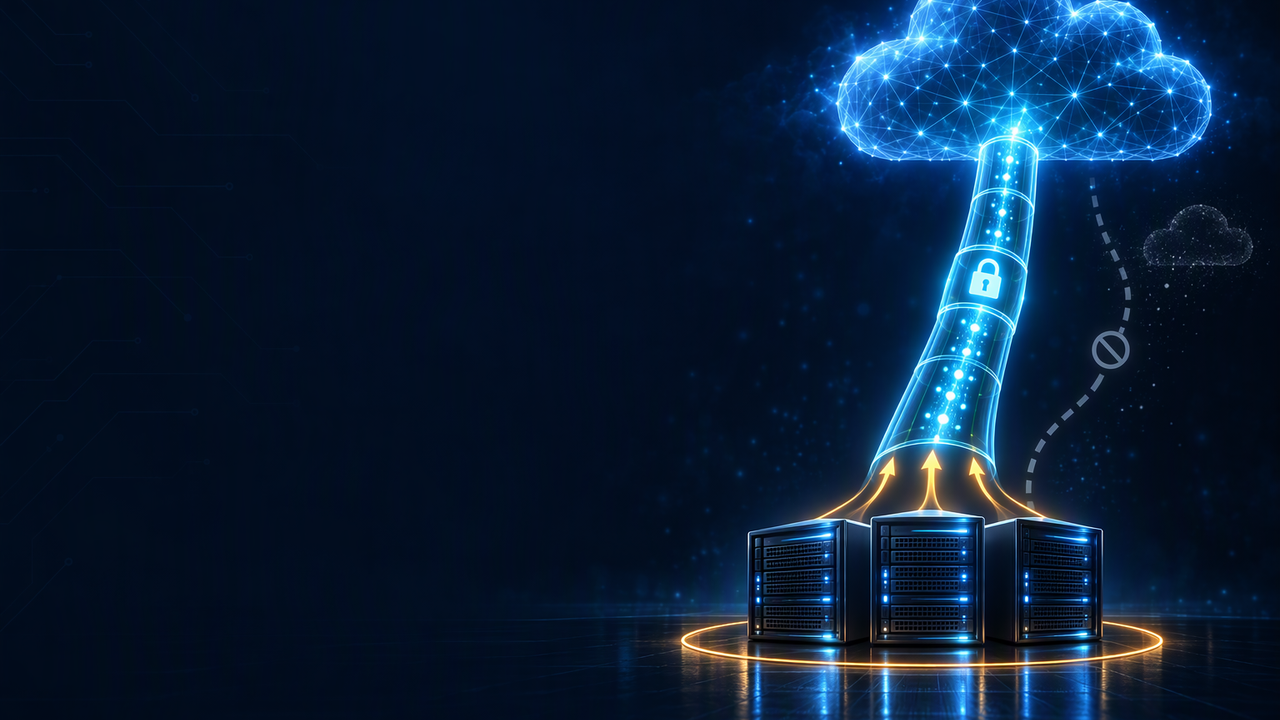
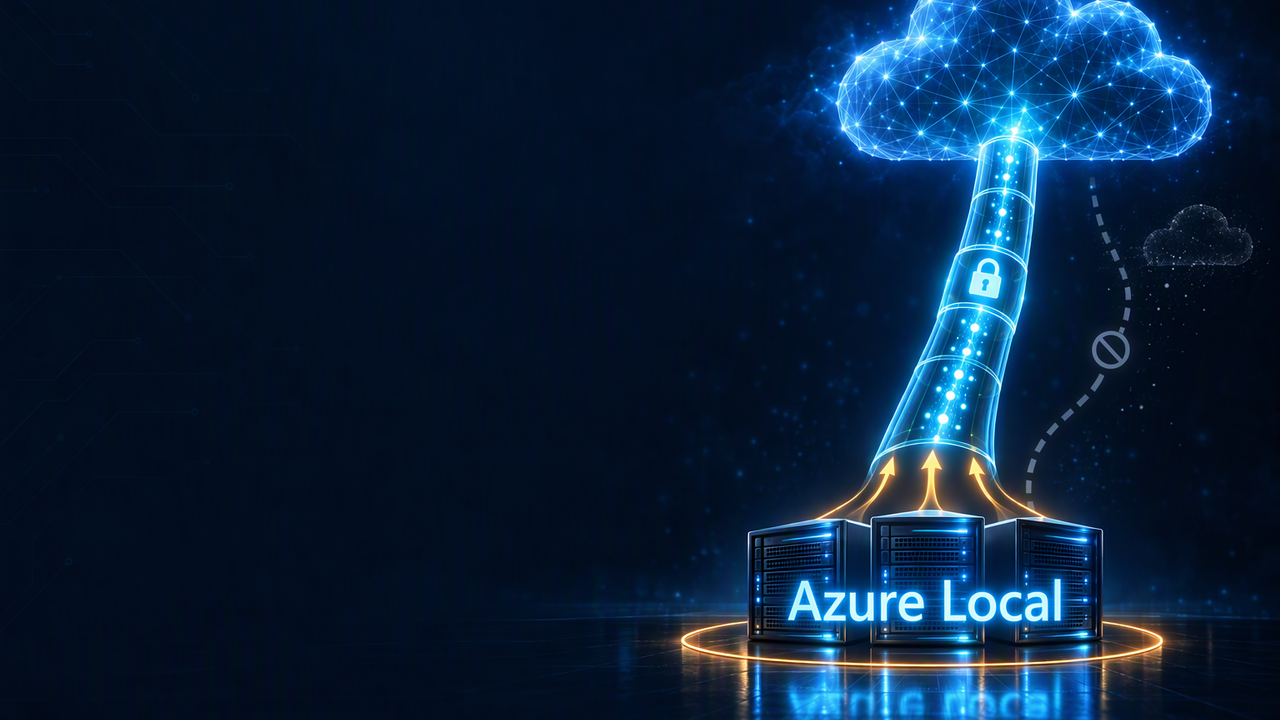
fix(hccjp-78): draw the Azure Local label inside the thumbnail artwork (#41)
The overlaid badge looked pasted on. Generate the label as part of the
background via an image edit pass and drop the badge from compositing.

diff --git a/HCCJP_78/make_thumbnail.py b/HCCJP_78/make_thumbnail.py
@@ -9,9 +9,12 @@ HCCJPの実ロゴを合成して thumbnail.png を出力する。
   - 画像生成に文字を描かせると年号やラベルが捏造されるため、日本語はすべてここで載せる
   - ロゴもAIに描かせず実ファイル（Images/hcc-logo02f.png）を合成する
 
-背景の再生成:
+背景の再生成（2段階。2段目で "Azure Local" を絵の中に描き込む）:
     python3 ~/.claude/skills/image-gen/scripts/gpt_image.py \
         --prompt-file thumbnail_prompt.txt --size 1536x1024 --quality high \
+        --output thumbnail_bg_raw.png
+    python3 ~/.claude/skills/image-gen/scripts/gpt_image.py -i thumbnail_bg_raw.png \
+        --prompt-file thumbnail_edit_prompt.txt --size 1536x1024 --quality high \
         --output thumbnail_bg_raw.png
     python3 -c "from PIL import Image; im=Image.open('thumbnail_bg_raw.png').resize((1280,853), Image.LANCZOS); im.crop((0,66,1280,786)).save('thumbnail_bg.png')"
 
@@ -30,7 +33,6 @@ BG_PATH = HERE / "thumbnail_bg.png"
 LOGO_PATH = HERE.parent / "Images" / "hcc-logo02f.png"
 OUT_PATH = HERE / "thumbnail.png"
 
-LABEL = "Azure Local"
 LINE1 = "Azureへの通信経路を"
 LINE2 = "プライベートに！？"
 DATE_TEXT = "HCCJP 第78回   2026.10.9(金) 14:00〜"
@@ -88,23 +90,11 @@ def build() -> Image.Image:
     composed = Image.alpha_composite(base, veil)
     draw = ImageDraw.Draw(composed)
 
-    f_label = _fit(LABEL, 66, zone - 60)
     f1 = _fit(LINE1, 54, zone)
     f2 = _fit(LINE2, 86, zone)
 
-    y_label = 250
-    lw = draw.textbbox((0, 0), LABEL, font=f_label)[2]
-    lh = draw.textbbox((0, 0), LABEL, font=f_label)[3]
-    bar = Image.new("RGBA", composed.size, (0, 0, 0, 0))
-    ImageDraw.Draw(bar).rounded_rectangle(
-        [MARGIN_X - 22, y_label - 16, MARGIN_X + lw + 26, y_label + lh + 20],
-        radius=16, fill=AZURE_BLUE,
-    )
-    composed = Image.alpha_composite(composed, bar)
-    draw = ImageDraw.Draw(composed)
-    _outlined(draw, (MARGIN_X, y_label), LABEL, f_label, WHITE, width=3)
-
-    y1 = y_label + lh + 58
+    # "Azure Local" は背景の絵の中に描き込み済み（後から重ねると浮くため）
+    y1 = 290
     _outlined(draw, (MARGIN_X, y1), LINE1, f1, CYAN, width=4)
 
     y2 = y1 + draw.textbbox((0, 0), LINE1, font=f1)[3] + 26
